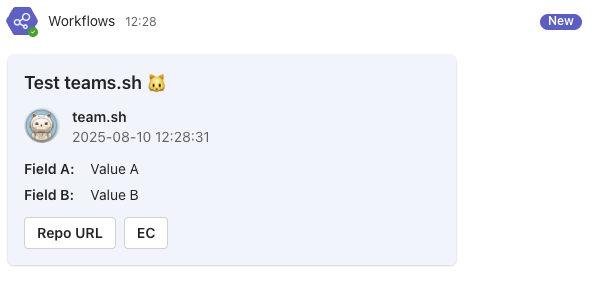
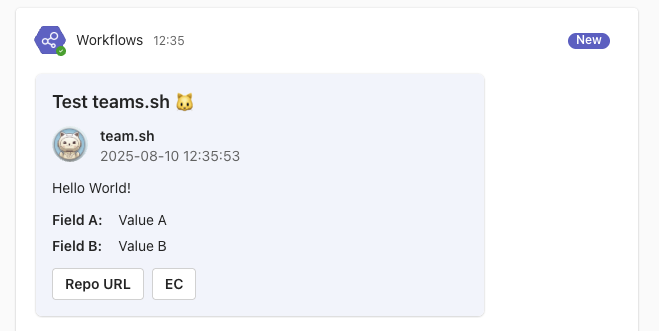
feat: complete README

diff --git a/README.md b/README.md
@@ -2,6 +2,10 @@
 
 * [Presentation](#presentation "Presentation")
 * [Dependencies](#dependencies "Dependencies")
+* [Usage](#usage "Usage")
+* [Options](#options "Options")
+* [Getting a webhook URL](#getting-a-webhook-url "Getting a webhook URL")
+* [Limitations](#limitations "Limitations")
 * [Acknowledgements](#acknowledgements "Acknowledgements")
 
 ## Presentation
@@ -25,11 +29,55 @@ Works with (group) conversations or channels.
 
 ## Options
 
-TO COMPLETE
+[![Notification content](./static/notification_content.png#center "Notification content")](./static/notification_content.png)
+
+1. `--title`
+2. `--username`
+3. `--avatar`
+4. `--description`
+5. `--style`
+6. `--field`
+7. `--link`
+
+⚠ **None of those parameters are required** ⚠
+
+### `--title STRING`
+
+Set a title to the notification
+
+### `--username STRING`
+
+Set an author to the notification
+
+### `--avatar URL`
+
+Set a custom avatar for the notification author
+
+### `--description STRING`
+
+Add a text description to the notification
+
+### `--style (emphasis/accent/good/attention/warning)`
+
+Set the style of the notification card.
+
+Inherited from the [Container.style](https://adaptivecards.io/explorer/Container.html "Microsoft") property.
+
+### `--field STRING;STRING`
+
+Add a field `NAME: Value` to the notification.
+
+This option can be provided O to n times to add n fields.
+
+### `--link STRING;URL`
+
+Add a link in the form of a clickable button to the notification.
+
+This option can be provided O to n times to add n links.
 
 ## Getting a webhook URL
 
-The goal is to create a Workflow on PowerAutomate that is going to publish messages on Teams, in the form of an [Adaptive Card](https://adaptivecards.io/ "Microsoft"), using a webhook as a trigger.
+The goal here is to create a Workflow on PowerAutomate that is going to publish messages on Teams, in the form of an [Adaptive Card](https://adaptivecards.io/ "Microsoft"), using a webhook as a trigger.
 
 The official [Microsoft Support documentation](https://support.microsoft.com/en-us/office/create-incoming-webhooks-with-workflows-for-microsoft-teams-8ae491c7-0394-4861-ba59-055e33f75498 "Microsoft") works but can be quite cumbersome.
 
